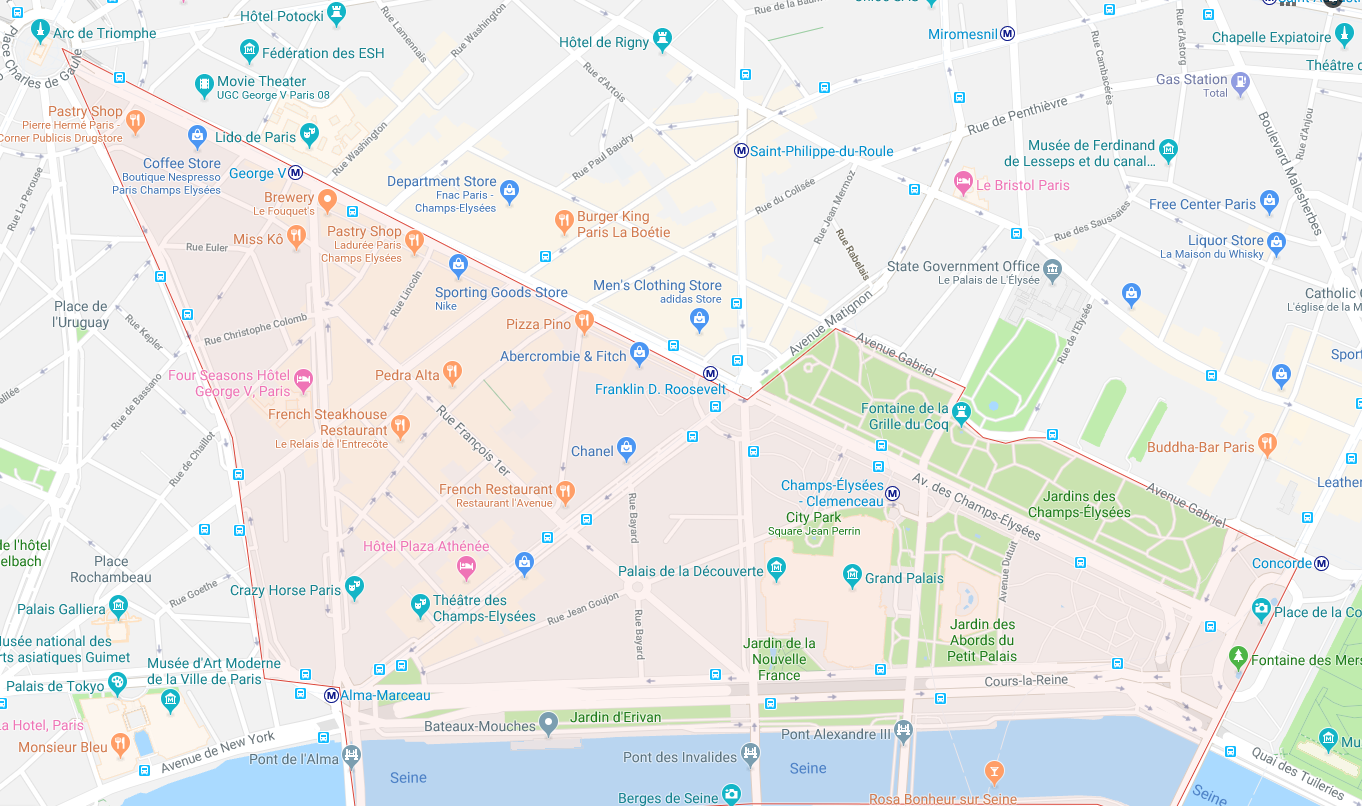
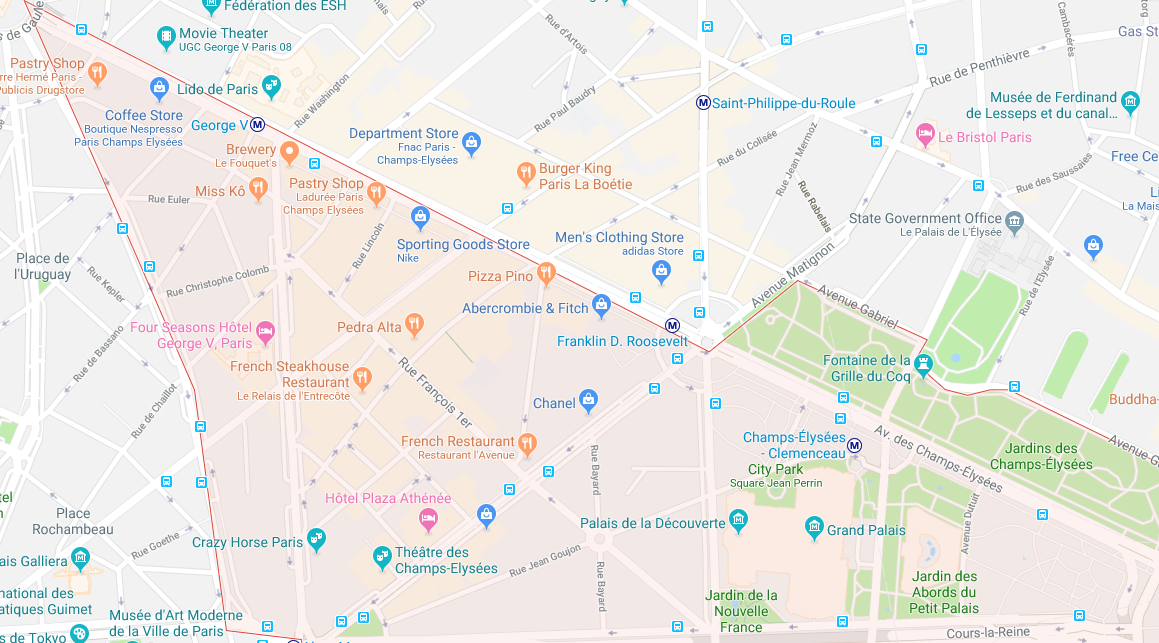
Fixed bootstrap modal to show static google maps photo. Ready to deliver. Could and should improve features

diff --git a/index.html b/index.html
@@ -101,7 +101,25 @@
 
       <section id="map-sort" class="flex-container">
         <div class="map flex-container">
-          <button type="button" name="view-map" class="view-map-btn">View Map</button>
+          <button type="button" name="view-map" class="view-map-btn" data-toggle="modal" data-target="#Modal">View Map</button>
+        </div>
+        <div class="modal fade" id="Modal" tabindex="-1" role="dialog" aria-labelledby="ModalLabel" aria-hidden="true">
+          <div class="modal-dialog" role="document">
+            <div class="modal-content">
+              <div class="modal-header">
+                <h5 class="modal-title" id="ModalLabel">View on Google Maps</h5>
+                <button type="button" class="close" data-dismiss="modal" aria-label="Close">
+                  <span aria-hidden="true">&times;</span>
+                </button>
+              </div>
+              <div class="modal-body">
+                <img src="./images/champs-elysees.png" alt="Champs-elysees Google maps">
+              </div>
+              <div class="modal-footer">
+                <button type="button" class="btn btn-secondary" data-dismiss="modal">Close</button>
+              </div>
+            </div>
+          </div>
         </div>
         <form>
           <div class="sort flex-container">
@@ -294,7 +312,7 @@
             <h1>Paris Hotel</h1>
             <p><img src="./images/5-star.png" alt="rating icon">  Hotel</p>
             <p>Paris, 0.1 miles to Champs Elysées</p>
-            <p><span class="rate">9.3</span> <strong>Excellent</strong> (1736 reviews)</p>
+            <p><span class="rate">9.3</span> <strong>Excellent</strong> (1511 reviews)</p>
             <p>Excellent location (9.6 / 10)</p>
           </div>
           <div class="deals flex-container">

diff --git a/css/style.css b/css/style.css
@@ -263,6 +263,13 @@ main {
   background-color: #707070;
 }
 
+/* Overide bootstrap modal width
+to fit the google image */
+
+#map-sort .modal-dialog {
+  max-width: 1195px;
+}
+
 .sort-label {
   font-size: 1em;
   font-family: 'Merriweather', serif;
